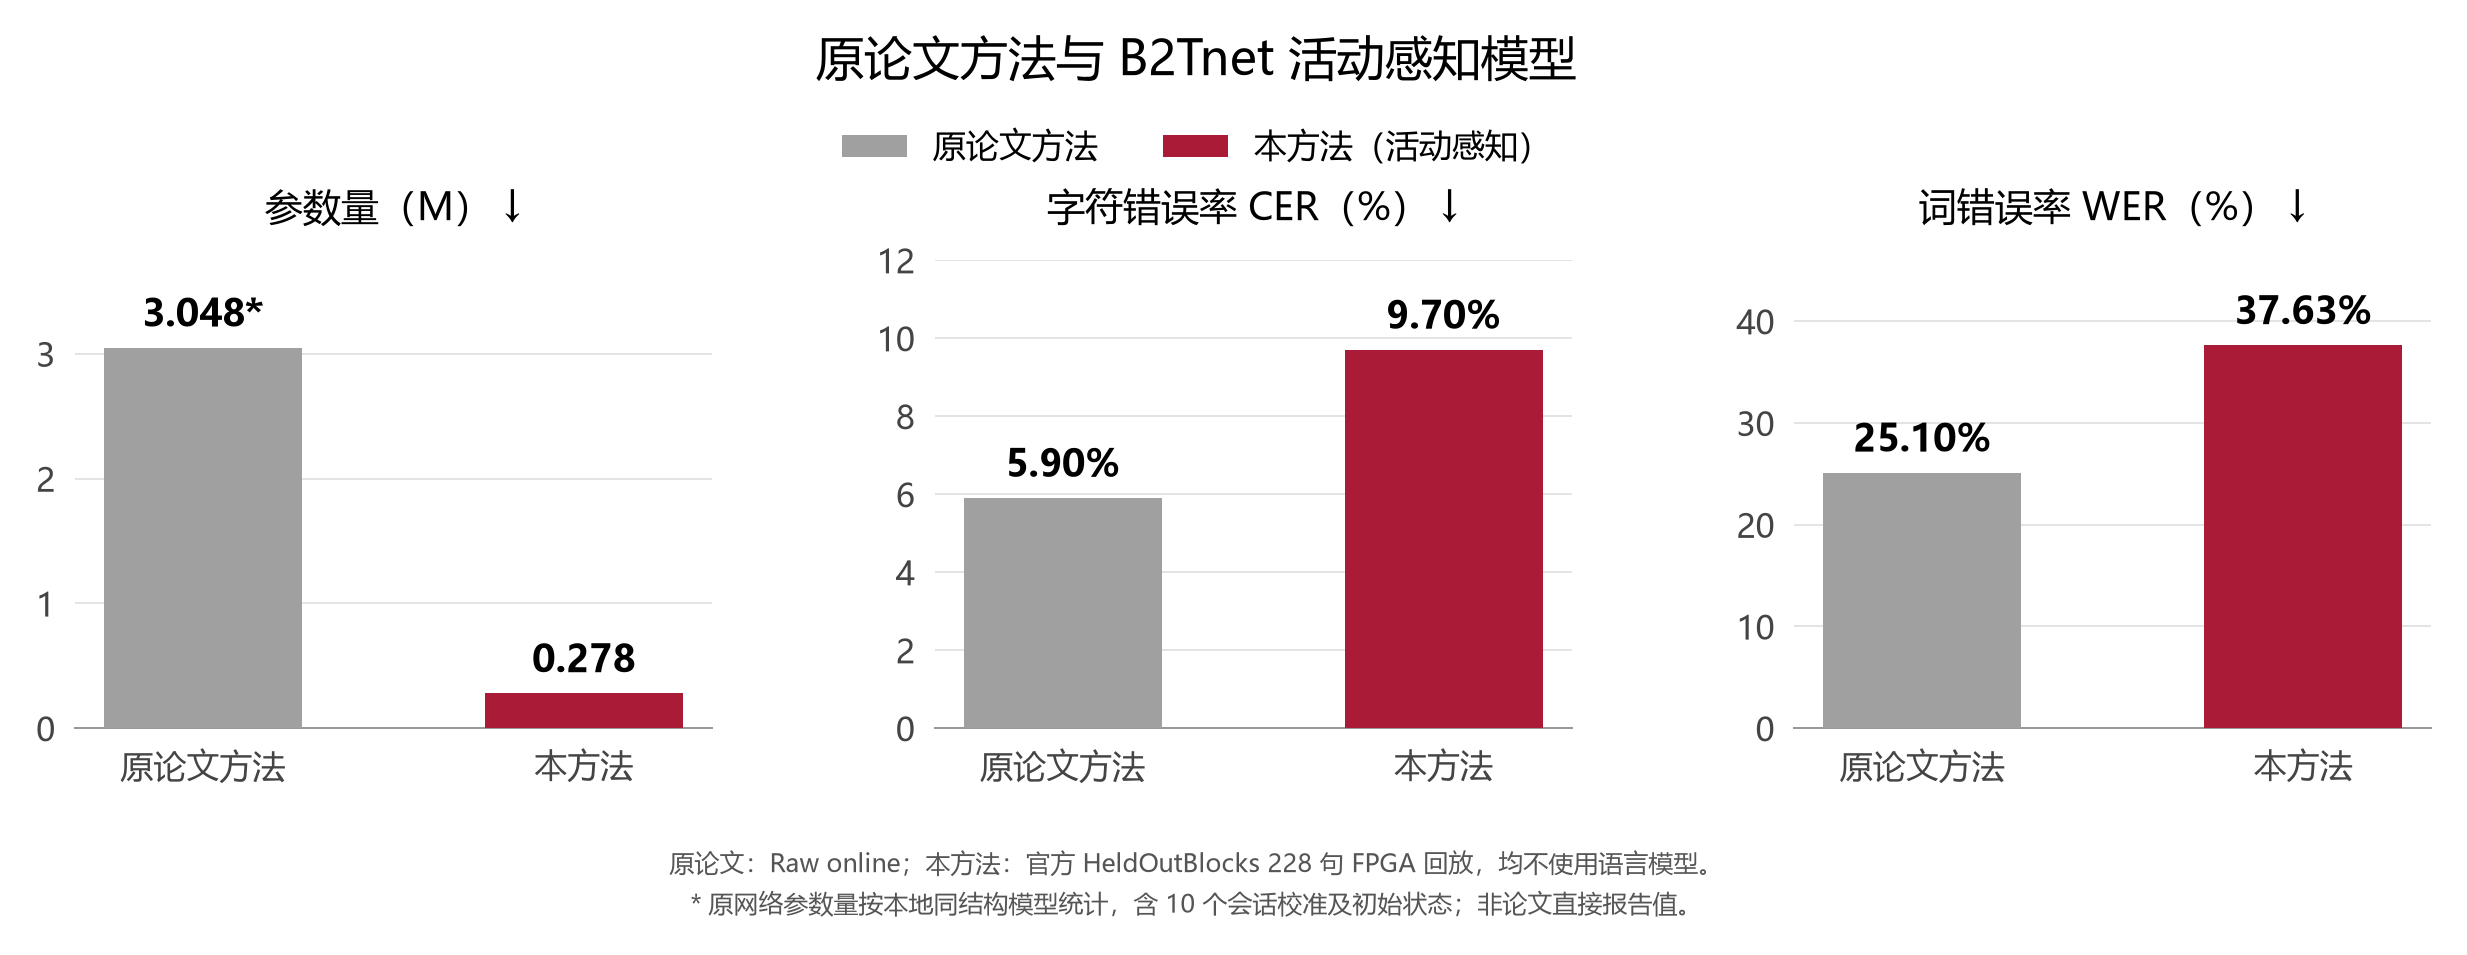
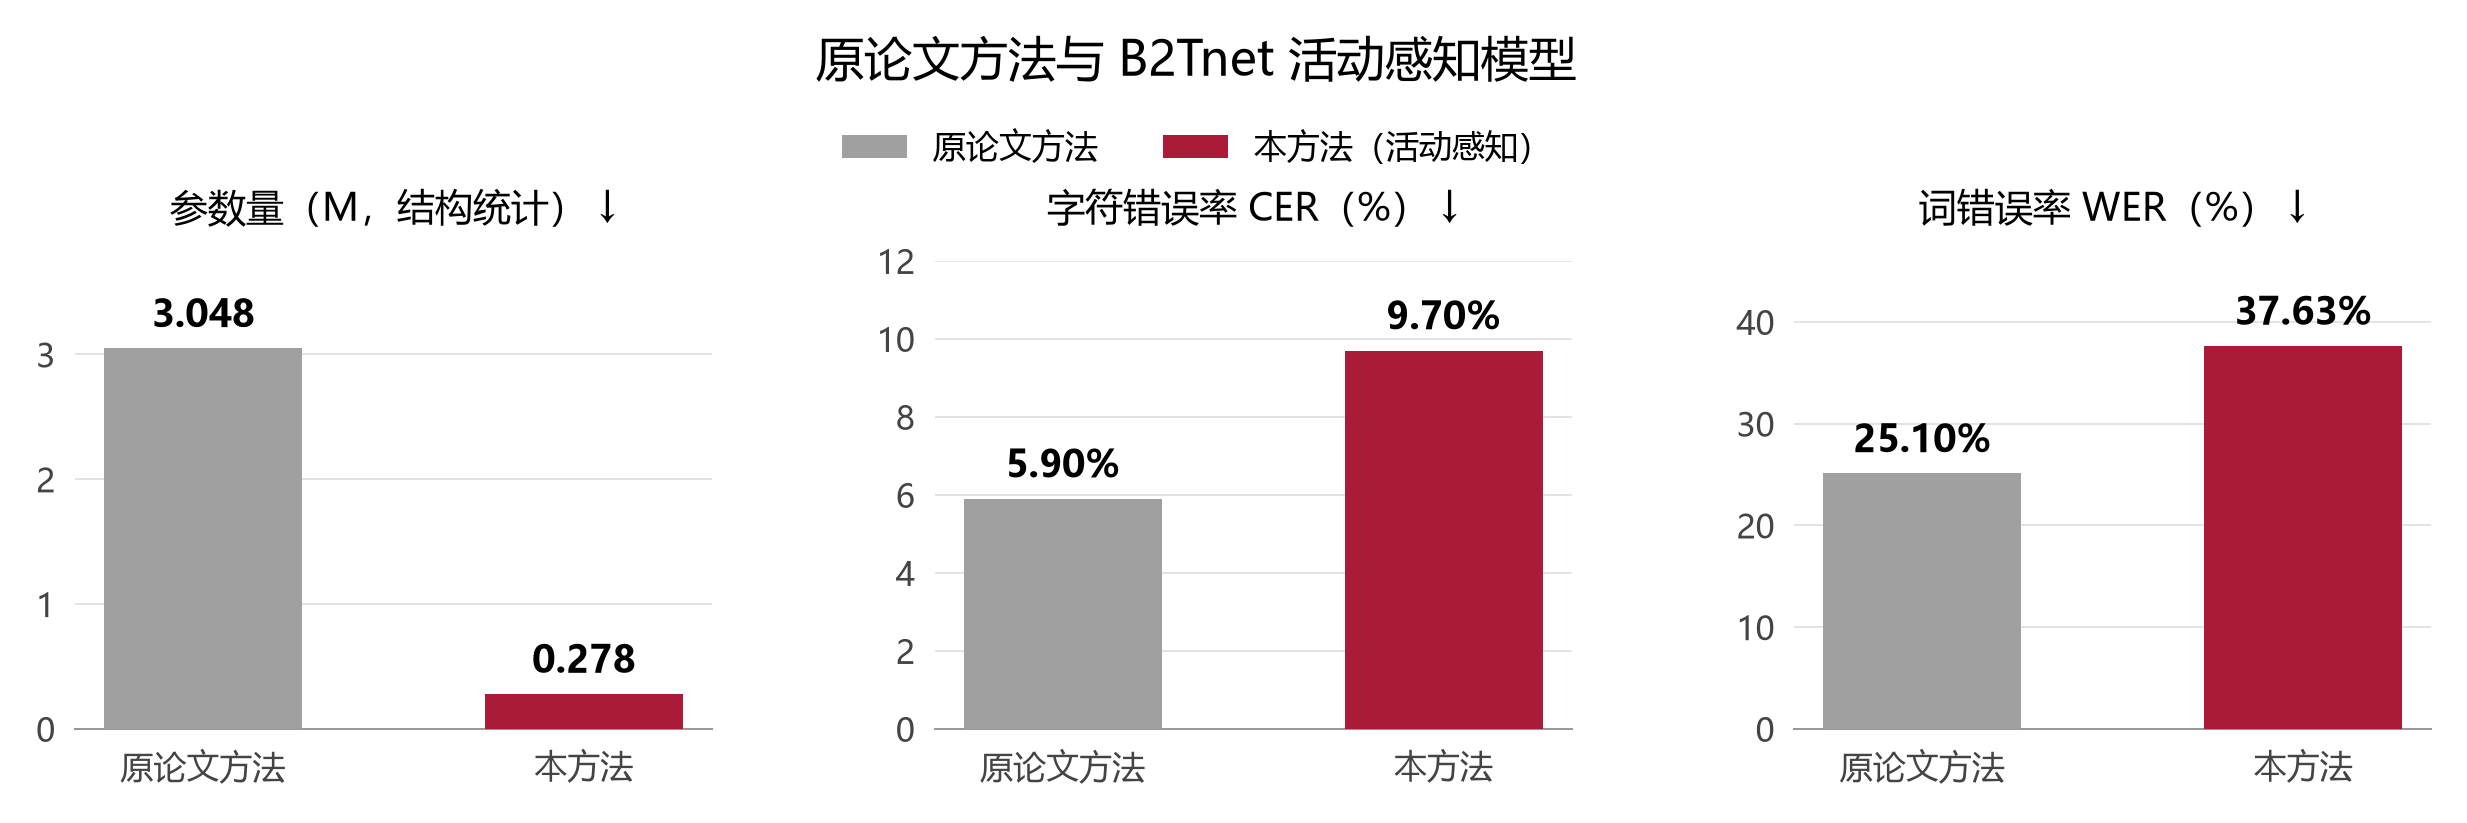
docs: streamline README and remove comparison chart footnotes

diff --git a/report/figures/generate_paper_comparison.py b/report/figures/generate_paper_comparison.py
@@ -30,10 +30,10 @@ def main():
 
     data = json.loads((root / "paper_comparison.json").read_text(encoding="utf-8"))
     paper, model = data["paper"], data["b2tnet_activity"]
-    # 原论文未直接报告这个参数总数，图中以星号标注同结构本地统计值。
+    # 参数量采用本地结构统计，识别指标采用登记的文献及板测数据。
     parameters = [paper["local_same_architecture_parameter_count"], model["parameter_count"]]
     panels = [
-        ("参数量（M） ↓", [x / 1e6 for x in parameters], ["3.048*", "0.278"], 3.75),
+        ("参数量（M，结构统计） ↓", [x / 1e6 for x in parameters], ["3.048", "0.278"], 3.75),
         ("字符错误率 CER（%） ↓", [paper["cer_percent"], model["cer_percent"]], ["5.90%", "9.70%"], 12),
         ("词错误率 WER（%） ↓", [paper["wer_percent"], model["wer_percent"]], ["25.10%", "37.63%"], 46),
     ]
@@ -57,11 +57,8 @@ def main():
         handles=[Patch(facecolor=colors[0], label="原论文方法"), Patch(facecolor=colors[1], label="本方法（活动感知）")],
         loc="upper center", bbox_to_anchor=(0.5, 0.91), ncol=2, frameon=False,
     )
-    # 明确文献在线实验与本方法离线回放的区别，避免绘图暗示实验设置完全相同。
-    fig.text(0.5, 0.05, "原论文：Raw online；本方法：官方 HeldOutBlocks 228 句 FPGA 回放，均不使用语言模型。", ha="center", fontsize=10, color="#555555")
-    fig.text(0.5, 0.005, "* 原网络参数量按本地同结构模型统计，含 10 个会话校准及初始状态；非论文直接报告值。", ha="center", fontsize=10, color="#555555")
     fig.subplots_adjust(left=0.055, right=0.99, top=0.73, bottom=0.21, wspace=0.35)
-    fig.savefig(root / "paper_vs_b2tnet_activity.png", dpi=180, facecolor="white", bbox_inches="tight", pad_inches=0.2)
+    fig.savefig(root / "paper_vs_b2tnet_activity.png", dpi=180, facecolor="white", bbox_inches="tight", pad_inches=0.2, metadata={"Software": None})
     plt.close(fig)
 
 

diff --git a/README.md b/README.md
@@ -35,14 +35,12 @@
 
 ### 原论文方法与 B2Tnet 活动感知模型
 
-| 方法 | 参数量 ↓ | CER ↓ | WER ↓ |
+| 方法 | 参数量（本地结构统计）↓ | CER ↓ | WER ↓ |
 | --- | ---: | ---: | ---: |
-| 原论文 GRU（Willett et al., Nature 2021；Raw online） | 约 3.05M* | 5.90% | 25.10% |
+| 原论文 GRU（Willett et al., Nature 2021；Raw online） | 3,048,352 | 5.90% | 25.10% |
 | **B2Tnet（活动感知精度，FPGA）** | **278,416** | **9.6988%** | **37.6260%** |
 
-原论文 CER / WER 引用 [Table 1 的 Raw online output](https://pmc.ncbi.nlm.nih.gov/articles/PMC8163299/#T1)，为五天在线实验均值；B2Tnet 为官方 HeldOutBlocks 228 句离线回放板测结果。两者均不使用语言模型后处理，实验设置不同，表格用于文献参照。
-
-\* 原网络参数量按本地同结构复现统一统计为 3,048,352，包含 10 个会话的校准参数及可学习初始状态，并非论文直接报告的参数量。按此口径，B2Tnet 参数量减少 **90.87%（10.95×）**。
+原论文识别指标取自 [Table 1 的 Raw online output](https://pmc.ncbi.nlm.nih.gov/articles/PMC8163299/#T1)，B2Tnet 在官方 HeldOutBlocks 228 句上完成 FPGA 回放测试。按本地结构统计，B2Tnet 参数量减少 **90.87%（10.95×）**。
 
 ![原论文方法与 B2Tnet 活动感知模型的参数量、CER 和 WER 对比](report/figures/paper_vs_b2tnet_activity.png)
 
@@ -54,8 +52,6 @@ B2Tnet 活动感知模型已完成全部 228 句 FPGA 测试，3,457,568 个 INT
 | --- | ---: | ---: | ---: |
 | MAC / 20 ms 输入帧 | 1,438,553.6 | 143,500.8 | 10.02× |
 | 矩阵权重存储 | 11.594 MiB（FP32） | 0.262 MiB（INT8） | 44.31× |
-
-MAC 为按输入帧摊销的矩阵与卷积运算量；权重存储不含偏置、scale、状态、缓存及物理存储对齐。计算与存储下降来自网络结构及定点化，活动感知门精度保持矩阵 MAC 数量不变。
 
 ### FPGA 实现与演示
 
@@ -119,7 +115,7 @@ pynq-gru-bci/
 └── report/
     ├── design_report.pdf     # 设计报告
     ├── design_report.docx    # 可编辑报告
-    ├── llm_trace/            # 仅保留协作说明，不收录对话原文
+    ├── llm_trace/            # 协作流程说明
     └── figures/              # 系统、架构与性能配图
 ```
 
@@ -133,7 +129,7 @@ pynq-gru-bci/
 | 板端运行 | PYNQ-Z2、PYNQ 3.0.1、MicroSD、Micro USB 数据线、以太网 |
 | 演示界面 | PC 浏览器，与板卡网络互通 |
 
-使用仓库中的冻结比特流进行演示不需要 GPU，也不需要重新综合。
+冻结比特流可直接加载至 PYNQ-Z2，由板端执行推理，PC 浏览器展示解码过程。
 
 ## 复现步骤
 
@@ -150,7 +146,7 @@ python skill/verify_scripts/verify_repository.py
 
 将 `<REPOSITORY_SSH_URL>` 替换为仓库 Code 菜单中复制的 SSH 地址。使用源码 ZIP 时，解压后直接进入 `pynq-gru-bci/`，从安装依赖开始执行。
 
-校验脚本检查目录、全部交付文件的 SHA-256、IP 文件、仿真日志、板测结果及隐私规则；解压后的源码包无需 Git 历史即可校验。
+校验脚本检查目录、全部交付文件的 SHA-256、IP 文件、仿真日志、板测结果及隐私规则，支持 Git 克隆与源码 ZIP 两种方式。
 
 ### 2. 准备测试输入
 
@@ -195,7 +191,7 @@ python src/ps/model/run_precision_eval.py
 
 结果写入 `board/results/software_official/` 和 `board/results/software_summary.json`。脚本会复用已存在的逐句结果；从头计算时，先将 `software_official/` 改名备份，再执行命令。
 
-RTL 核心回归使用仓库附带的测试向量，无需原始数据。将 `VIVADO_BIN` 替换为本机安装路径：
+RTL 核心回归使用仓库附带的测试向量。将 `VIVADO_BIN` 替换为本机安装路径：
 
 ```powershell
 $env:VIVADO_BIN = 'D:/2025.2/Vivado/bin'
@@ -212,7 +208,7 @@ python sim/scripts/simulate_activity.py
 vivado -mode batch -source build/scripts/build_overlay.tcl
 ```
 
-脚本生成 `build/vivado_project/`、`board/bitstream/h144_dma_overlay.bit` 和同名 `.hwh`，并将报告写入 `build/reports/`。重新构建建议使用独立 checkout；脚本检测到已有 Vivado 工程时会停止。
+在独立 checkout 中运行脚本，生成 `build/vivado_project/`、`board/bitstream/h144_dma_overlay.bit` 和同名 `.hwh`，并将报告写入 `build/reports/`。
 
 自定义 IP 位于 `src/pl/ip/h144_accel/`，可加入 Vivado IP Catalog。源码中的 `h144` 为硬件模块与比特流的命名。
 
@@ -241,7 +237,7 @@ python board/scripts/serve_ui.py --board-api http://192.168.2.99:8765 --port 876
 
 浏览器打开 **http://127.0.0.1:8766/**，点击“开始解码”。界面默认 5 MHz，可选择 50 MHz；文本由 FPGA 返回的 logits 经 PS 判决生成，输出与整数参考、活动计数一致后显示“校验通过”。日志保存在 `board/results/live/`。
 
-演示按 WER、CER 从低到高排列，同分按信号时长和原记录号排序。排序仅调整展示顺序，整体准确率使用全部 228 句计算；参考文本不参与推理。
+演示按 WER、CER 从低到高排列，同分按信号时长和原记录号排序。整体准确率由全部 228 句的解码结果计算。
 
 ## 项目资料
 

diff --git a/RELEASE.md b/RELEASE.md
@@ -1,6 +1,6 @@
 # B2Tnet 最终交付说明
 
-发布标识：`b2tnet-activity-fpga-20261104`。
+发布标识：`b2tnet-activity-fpga-20261104-v2`。
 
 交付目录遵循 `src/`、`sim/`、`build/`、`board/`、`data/`、`skill/`、`report/` 的结构；`configs/` 保存冻结数值配置，`third_party/` 保存上游许可。
 
@@ -12,7 +12,7 @@
 - 官方 HeldOutBlocks 228 句：CER 9.6988%，WER 37.6260%。
 - 3,457,568 个 INT16 板端输出与对应整数参考逐位一致。
 
-模型、RTL、冻结权重、比特流与板测结果保持一致。文档中的作者身份元数据已清除，原始对话、认证材料及个人主目录不属于交付内容；`report/llm_trace/` 仅保留协作说明。
+交付包含模型、RTL、冻结权重、比特流与板测结果。文档已完成身份元数据清理，`report/llm_trace/` 提供协作流程说明。
 
 ## 复现与校验
 
@@ -23,6 +23,6 @@ python -m pip install -r requirements.txt
 python skill/verify_scripts/verify_repository.py
 ```
 
-该检查同时支持 Git 克隆和不含 `.git` 的源码 ZIP。原始神经活动输入从官方数据源另行准备，步骤见 README。
+该检查同时支持 Git 克隆和源码 ZIP。原始神经活动输入从官方数据源获取，步骤见 README。
 
-`file_manifest_sha256.json` 列出交付文件的内容哈希。交付压缩包只包含登记文件及清单，不含 Git 配置、私有备份、工作目录缓存或本地审计原始材料。
+`file_manifest_sha256.json` 列出交付文件的内容哈希。交付压缩包按该清单生成，并附校验结果。

diff --git a/board/scripts/README.md b/board/scripts/README.md
@@ -1,9 +1,9 @@
 # 板端演示
 
-按根README启动`board_server.py`（真实PYNQ）及`serve_ui.py`（PC代理）。单线程独占DMA，界面HTTP线程只读取状态。数据来自本地NPZ特征；不需要GPU。
+按根 README 启动 `board_server.py`（PYNQ）及 `serve_ui.py`（PC 代理）。工作线程管理 DMA，界面 HTTP 线程读取运行状态；板端处理本地 NPZ 特征。
 
-`stream_decoder.py`每收到一个完整32-logit输出重复5次，检测onset阈值上穿并等待15步读取字符。`reference`字段在结束后才用于可选展示；排序表只提供记录顺序，不向解码器发射文字。
+`stream_decoder.py`将每组 32 路 logits 重复 5 次，检测 onset 阈值上穿，并在延迟 15 步后判决字符。排序表确定句子展示顺序，`reference`字段用于句末可选展示。
 
-连续播放默认关闭；“下一条”在空闲时选择下一排序句，再点开始。停止会终止当前事务并重配置后释放缓冲，恢复完成前不能启动另一句。日志保存在传入`--log-dir`中。
+通过“开始解码”和“下一条”运行句子，也可在设置中启用连续播放。停止后系统结束事务，完成硬件重配置并释放缓冲，再进入下一句就绪状态。日志保存在传入的 `--log-dir` 中。
 
-波形增益仅影响canvas显示，不修改发给PL的INT8输入。默认×8，可在设置中调整。
+波形显示增益默认 ×8，可在设置中调整；PL 使用冻结的 INT8 输入。

diff --git a/src/ps/model/README.md b/src/ps/model/README.md
@@ -2,7 +2,7 @@
 
 主阅读顺序：`compact_bci_model.py` → `recurrent_fixed_point_model.py` → `bit_exact_h144_golden.py`。
 
-`train_compact_bci.py`、`train_recurrent_fixed_qat.py`保存训练和QAT方法；`evaluate_h144_official_heldout.py`执行官方划分评估。其余文件是本地复现/数据处理的导入依赖或历史辅助模块，保留是为了代码可运行，**不表示科研仓库同时推进几何、CTC、MWER等多条创新主线**。
+`train_compact_bci.py`、`train_recurrent_fixed_qat.py`实现训练和 QAT；`evaluate_h144_official_heldout.py`执行官方划分评估。辅助模块提供数据读取、预处理和实验分析支持。
 
-默认路径和启动超参数不是冻结实验命令，运行时显式传入数据、标签、checkpoint及输出路径。输入是预处理后的神经活动特征，不能将历史注释中的raw/EEG目录命名理解为原始头皮电压。
+运行时传入数据、标签、checkpoint 及输出路径。输入为完成预处理的 192 通道植入式神经活动特征；冻结配置见仓库 `configs/` 目录。
 

diff --git a/data/eeg_dataset/README.md b/data/eeg_dataset/README.md
@@ -1,5 +1,5 @@
 # 输入数据
 
-输入是植入式阈值越界计数衍生的192通道神经活动特征，不是原始头皮EEG。目录名称按竞赛要求保留。
+输入为植入式阈值越界计数衍生的 192 通道神经活动特征，目录名称遵循竞赛结构。
 
-原数据：https://doi.org/10.5061/dryad.wh70rxwmv 。原始人体神经数据不随仓库发布。将已有导出的228句`official_traces/`（manifest.json、official_000.npz…official_227.npz）置于本目录。先按原项目导出脚本从合法取得的数据生成，不能用随机输入代替正式准确率。数据需标准化、平滑和10ms→20ms合帧，再按冻结scale量化。
+从 [Dryad](https://doi.org/10.5061/dryad.wh70rxwmv) 获取数据，按导出脚本完成标准化、平滑、10 ms → 20 ms 合帧与量化。将导出的 228 句 `official_traces/`（manifest.json、official_000.npz…official_227.npz）置于本目录，用于整数评估及板端解码。

diff --git a/sim/results/README.md b/sim/results/README.md
@@ -1,3 +1,3 @@
-# 仿真证据
+# 仿真结果
 
-核心三模式XSim：64帧人工稳定/扰动序列，共1248个INT16 logits及策略计数全部匹配。不是覆盖率报告；本次未采集代码或功能覆盖率，未上传波形WDB。对应日志与rtl_simulation.json保留。
+XSim 核心回归使用 64 帧稳定及扰动序列，合计 1,248 个 INT16 logits 与对应策略计数全部匹配。仿真日志和汇总结果保存在本目录及 `rtl_simulation.json` 中。

diff --git a/skill/README.md b/skill/README.md
@@ -6,4 +6,4 @@
 - `verify_scripts/`：仓库、模型、仿真和板测证据自动检查。
 - `pitfall_list/`：从本项目实际问题提炼的踩坑清单。
 
-适用于离线神经特征回放的研究原型，不包含人体采集和临床验证。验证效果见板测228句零位差、XSim1248输出零位差。
+支持离线神经特征回放、PYNQ 部署和板级验证。已完成 228 句板测输出逐位一致，以及 XSim 1,248 个输出逐位一致。

diff --git a/src/ps/preprocess/README.md b/src/ps/preprocess/README.md
@@ -1,3 +1,3 @@
 # 数据准备
 
-`export_h144_official_board_traces.py`位于`../model/`。已有输入已完成标准化、平滑、20ms合帧和INT8量化，板端不再次执行原始波形阈值提取。此处的export_vivado_mem.py生成ROM初始化，不是采集前端。
+`export_h144_official_board_traces.py`位于`../model/`，完成特征标准化、平滑、20 ms 合帧和 INT8 输入导出。`export_vivado_mem.py`生成 FPGA ROM 初始化文件。

diff --git a/report/llm_trace/README.md b/report/llm_trace/README.md
@@ -1,3 +1,3 @@
 # 协作说明
 
-为保护个人隐私，不公开对话原文、会话导出、账号信息或认证材料。可复用的技术流程见仓库中的 skill/ 目录。
+项目协作流程、提示词工作流及可复用实验模板见仓库 `skill/` 目录。本目录作为协作流程说明入口。
